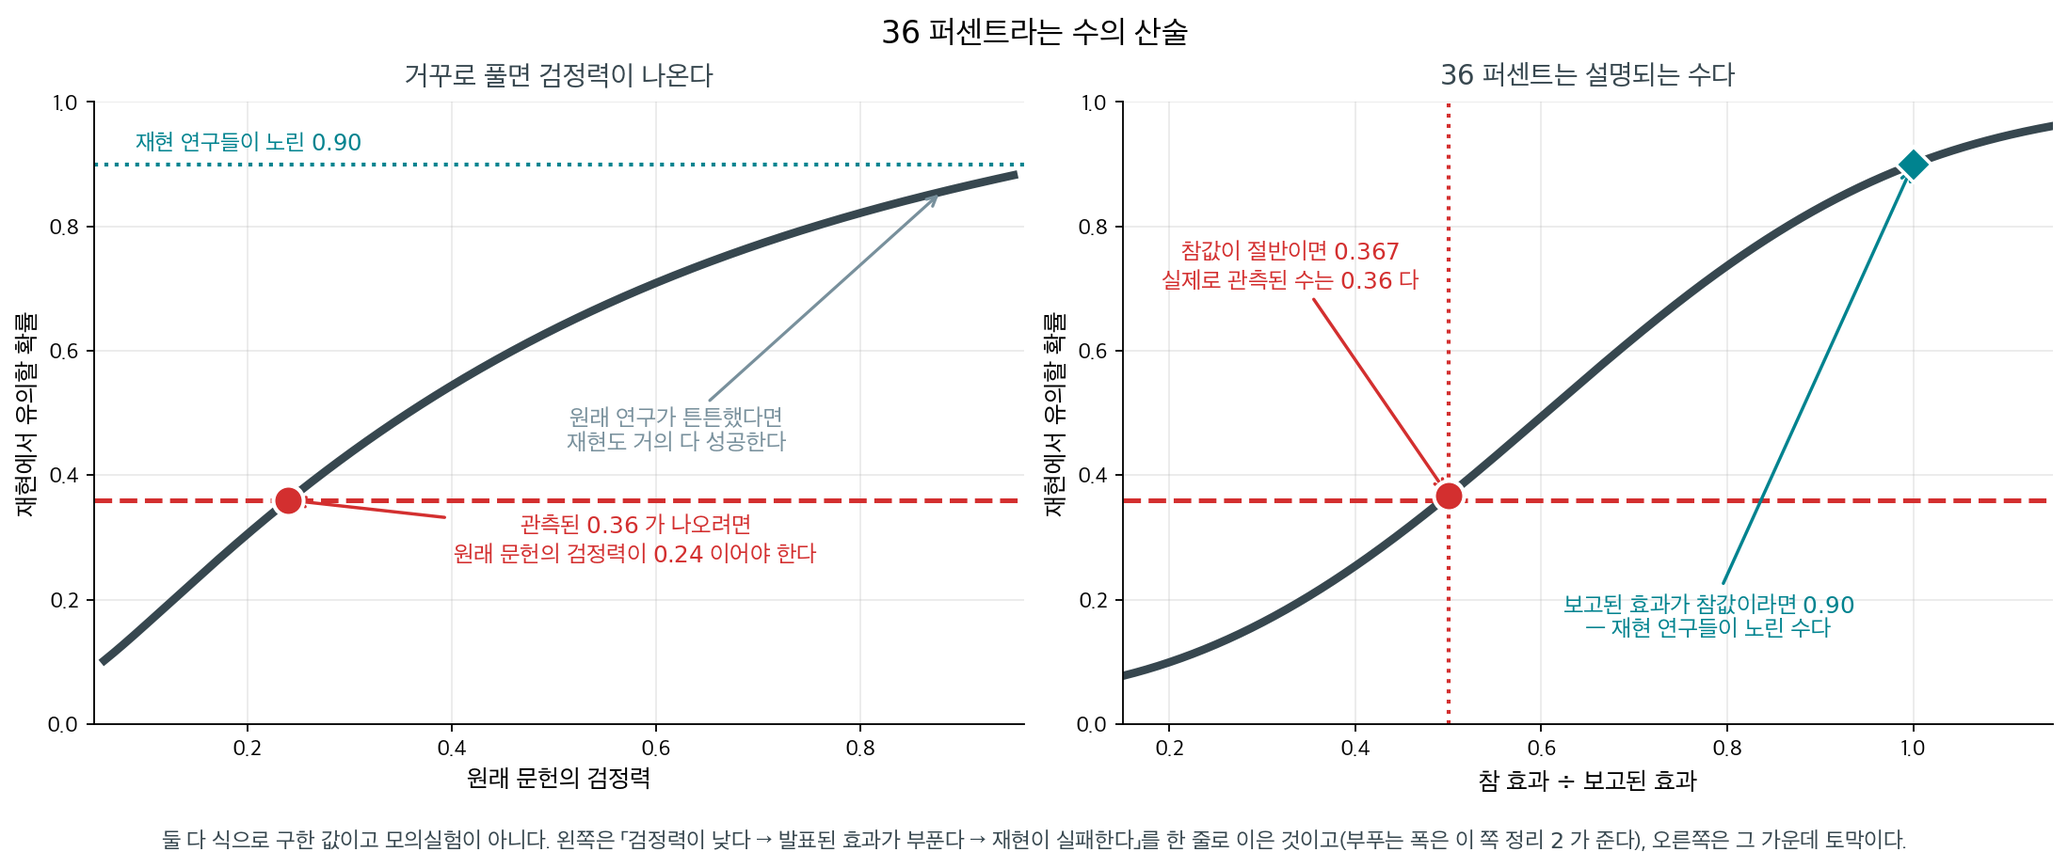
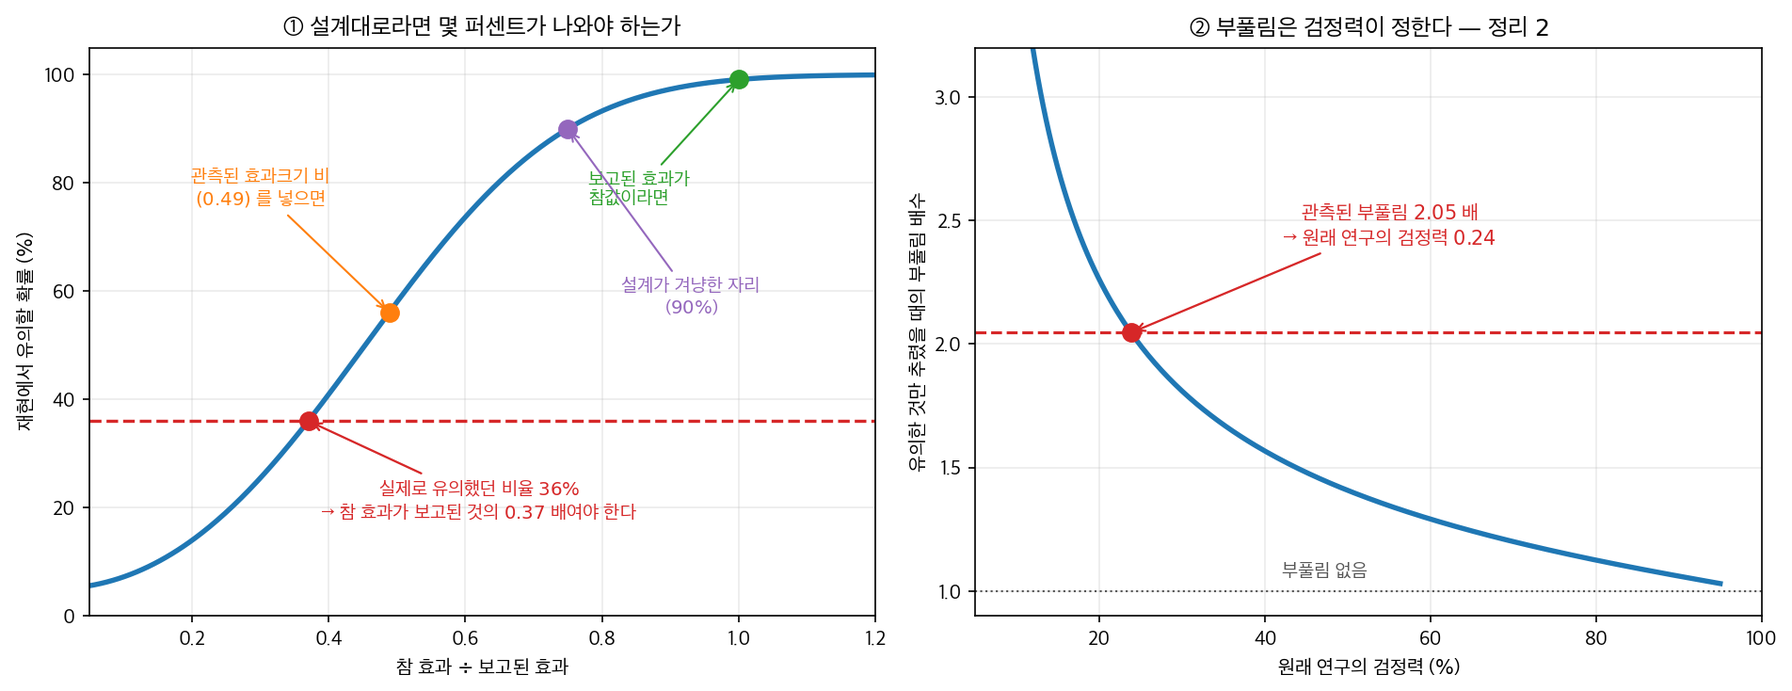
docs(ch01): 상자 다섯 개의 출처를 보강하고, 재현성 상자의 틀린 산술을 고침
출처 줄 규약을 agents/SKILL.md 에 명문화하고 ch01 의 상자 다섯 개를 메웠다.

그 과정에서 publication_bias 의 재현성 상자에 **사실 오류**를 발견했다.
재현 연구가 「원래 효과에 90% 검정력」으로 설계되었다고 적었으나 실제로는
「원래 효과의 75% 를 90% 검정력으로」였다. 그 위에 세운 0.367 ≈ 0.36 의
일치는 성립하지 않는다. 맞는 산술로 바꾸면 관측된 효과크기 비 0.49 가
56.1% 를 주고 실제 36% 와 20%p 가 어긋나며, 그 몫을 한 줄로 설명하지
않고 효과크기의 퍼짐(SD 0.257 > 평균 0.197)을 가리키도록 고쳐 적었다.
정리 2 로 푸는 「원래 검정력 0.24」는 재현 설계와 무관하므로 그대로다.
그림도 다시 그렸다.

diff --git a/scripts/make_ch01_replication_arithmetic.py b/scripts/make_ch01_replication_arithmetic.py
@@ -1,176 +1,130 @@
-r"""1.3절 「그림으로 보는 통계학」 — 36 퍼센트라는 수의 산술.
+r"""재현성 프로젝트의 세 수를 식으로 따져 본다.
 
-2015 년 8 월, 『사이언스』에 심리학 논문 100 편을 다시 해 본 결과가
-실렸다. 연구자 270 명 남짓이 몇 해에 걸쳐 한 일이다.
+재현 연구들은 **원래 효과의 $75\%$ 를 $90\%$ 검정력으로** 잡도록 설계되었다. 그 설계에서
+참 효과가 보고된 것의 몇 배냐에 따라 재현 성공 확률이 어떻게 달라지는가가 왼쪽이고,
+승자의 저주가 주는 부풀림이 원래 연구의 검정력과 어떻게 묶이는가가 오른쪽이다.
 
-  원래 논문의 97% 가 유의했다
-  다시 한 것의 36% 가 유의했다
-  다시 한 쪽의 효과크기가 원래의 절반쯤이었다
-
-세 수가 따로 노는 것처럼 보이지만 하나로 이어진다.
-
-재현 연구들은 **원래 보고된 효과크기**에 대해 90% 검정력이 되도록
-표본을 잡았다. 그런데 참 효과가 보고된 것의 절반이라면 그 설계의
-검정력은
-
-  lambda = 1.96 + 1.2816 = 3.2416     (보고된 효과에 대해 90%)
-  참 효과가 절반이면 lambda' = 1.6208
-  검정력 = Phi(1.6208 - 1.96) + Phi(-1.6208 - 1.96) = 0.367
-
-이다. **0.367 대 관측된 0.36.** 셋째 줄이 둘째 줄을 설명한다.
-
-그러면 왜 발표된 효과가 두 배로 부풀어 있었는가. 유의한 것만 실리기
-때문이다. 참 효과 delta 를 검정력 beta 로 재서 유의할 때만 발표하면
-
-  검정력 0.17 -> 발표된 효과가 참값의 2.49 배
-  검정력 0.25 ->                      2.00 배
-  검정력 0.52 ->                      1.39 배
-  검정력 0.90 ->                      1.06 배
-
-「절반」이 되려면 원래 연구들의 검정력이 0.25 쯤이었어야 한다.
-
-두 토막을 한 줄로 이어 거꾸로 풀면, 재현 성공률 0.36 이 나오려면
-원래 문헌의 검정력이 0.240 이어야 한다. 심리학 문헌의 검정력에 대해
-코언 이래로 거듭 보고되어 온 수준이 그쯤이다.
-
-만드는 파일:
-
-  ch01/classical/img/replication_arithmetic.png
-
-실행:  python3 scripts/make_ch01_replication_arithmetic.py   (저장소 최상위에서)
-필요:  numpy, scipy, matplotlib — 문서 빌드에는 필요하지 않다.
-       PNG는 커밋되므로 CI에서 다시 그리지 않는다.
+만드는 파일: docs/ch01/classical/img/replication_arithmetic.png
 """
 
 import numpy as np
-from scipy.optimize import brentq
-from scipy.stats import norm
-
 import matplotlib
+
 matplotlib.use("Agg")
 import matplotlib.pyplot as plt
 
 plt.rcParams["font.family"] = "Apple SD Gothic Neo"
 plt.rcParams["axes.unicode_minus"] = False
 
-OUT = "docs/ch01/classical/img/"
+from scipy import stats, optimize  # noqa: E402
 
-INK = "#37474F"
-MUTED = "#90A4AE"
-GREY = "#78909C"
-RED = "#D32F2F"
-TEAL = "#00838F"
-AMBER = "#B07C2C"
-BLUE = "#1565C0"
+Z = stats.norm.isf(0.025)  # 1.96
+# 설계: 원래 효과의 0.75 배에서 검정력 0.90
+LAM75 = Z + stats.norm.isf(0.10)
+K = LAM75 / 0.75  # 참/보고 비 r 당 비중심 모수
 
-ZC = 1.959964
-OBS_REP = 0.36                 # 관측된 재현 성공률
-TARGET = 0.90                  # 재현 연구가 노린 검정력
+OBS_RATIO = 0.197 / 0.403  # 재현 효과 / 원래 효과 (상관계수 단위)
+OBS_RATE = 0.36  # 실제로 유의했던 비율
 
 
-def power(lam):
-    return norm.sf(ZC - lam) + norm.cdf(-ZC - lam)
+def rep_power(r):
+    lam = K * np.asarray(r, dtype=float)
+    return stats.norm.sf(Z - lam) + stats.norm.cdf(-Z - lam)
 
 
-def inflation(lam):
-    """참 효과 lam 을 재서 유의할 때만 발표하면 발표값이 참값의 몇 배인가."""
-    a = norm.pdf(ZC - lam) - norm.pdf(-ZC - lam)
-    return (lam + a / power(lam)) / lam
+def inflation(d):
+    """참 효과 d 인 연구가 유의했을 때 보고되는 효과의 부풀림 배수."""
+    c = Z - d
+    return 1 + stats.norm.pdf(c) / stats.norm.sf(c) / d
 
 
-def main():
-    lam90 = brentq(lambda L: power(L) - TARGET, 0.1, 12)
-    print(f"  보고된 효과에 대해 검정력 {TARGET}: lambda = {lam90:.4f}")
-    print(f"\n{'참/보고 비율':>12}{'재현 검정력':>14}")
-    for r in (1.0, 0.8, 0.6, 0.5, 0.4, 0.3):
-        print(f"{r:>12.2f}{power(lam90*r):>14.3f}")
-    half = power(lam90 * 0.5)
-    print(f"\n  절반이면 {half:.4f} — 관측된 {OBS_REP}")
-
-    print(f"\n{'원래 연구의 검정력':>18}{'발표된 효과 / 참값':>20}")
-    for pw in (0.17, 0.25, 0.35, 0.52, 0.80, 0.90):
-        lam = brentq(lambda L: power(L) - pw, 0.01, 12)
-        print(f"{pw:>18.2f}{inflation(lam):>20.3f}")
-    lam2 = brentq(lambda L: inflation(L) - 2.0, 0.2, 6)
-    print(f"\n  발표값이 참값의 두 배가 되는 검정력 = {power(lam2):.3f}")
-
-    fig, axes = plt.subplots(1, 2, figsize=(13.2, 5.1), constrained_layout=True)
-
-    # ── 왼쪽: 원래 문헌의 검정력이 얼마였어야 하는가 ──
-    ax = axes[0]
-    pws = np.linspace(0.06, 0.95, 400)
-    lams = np.array([brentq(lambda L: power(L) - p, 0.01, 12) for p in pws])
-    comp = np.array([power(lam90 / inflation(l)) for l in lams])
-    beta_star = float(np.interp(OBS_REP, comp, pws))
-    print(f"\n  재현 성공률 {OBS_REP} 가 나오려면 원래 문헌의 검정력이 "
-          f"{beta_star:.3f} 이어야 한다")
-    ax.plot(pws, comp, lw=3.8, color=INK)
-    ax.axhline(OBS_REP, color=RED, lw=2.2, ls="--")
-    ax.axhline(TARGET, color=TEAL, lw=1.8, ls=":")
-    ax.plot([beta_star], [OBS_REP], marker="o", ms=14, color=RED, zorder=5,
-            mec="white", mew=1.8)
-    ax.text(0.09, TARGET + 0.022, f"재현 연구들이 노린 ${TARGET:.2f}$",
-            fontsize=10.6, color=TEAL)
-    ax.annotate(f"관측된 ${OBS_REP}$ 가 나오려면\n"
-                f"원래 문헌의 검정력이 ${beta_star:.2f}$ 이어야 한다",
-                xy=(beta_star, OBS_REP), xytext=(0.58, 0.26), fontsize=10.8,
-                color=RED, ha="center",
-                arrowprops=dict(arrowstyle="->", color=RED, lw=1.5))
-    ax.annotate("원래 연구가 튼튼했다면\n재현도 거의 다 성공한다",
-                xy=(0.88, comp[np.argmin(abs(pws - 0.88))]),
-                xytext=(0.62, 0.44), fontsize=10.8, color=GREY, ha="center",
-                arrowprops=dict(arrowstyle="->", color=GREY, lw=1.4))
-    ax.set_xlabel("원래 문헌의 검정력", fontsize=11.5)
-    ax.set_ylabel("재현에서 유의할 확률", fontsize=11.5)
-    ax.set_title("거꾸로 풀면 검정력이 나온다", fontsize=12.8, color=INK,
-                 pad=8)
-    ax.set_xlim(0.05, 0.96)
-    ax.set_ylim(0, 1.0)
-    ax.grid(alpha=0.25)
-    ax.spines[["top", "right"]].set_visible(False)
-
-    # ── 오른쪽: 그러면 재현은 몇 번 성공하는가 ──
-    ax = axes[1]
-    rs = np.linspace(0.15, 1.15, 400)
-    ax.plot(rs, [power(lam90 * r) for r in rs], lw=3.8, color=INK)
-    ax.axhline(OBS_REP, color=RED, lw=2.2, ls="--")
-    ax.axvline(0.5, color=RED, lw=1.8, ls=":")
-    ax.plot([0.5], [half], marker="o", ms=14, color=RED, zorder=5,
-            mec="white", mew=1.8)
-    ax.plot([1.0], [TARGET], marker="D", ms=12, color=TEAL, zorder=5,
-            mec="white", mew=1.6)
-    ax.annotate(f"보고된 효과가 참값이라면 ${TARGET:.2f}$\n"
-                f"— 재현 연구들이 노린 수다",
-                xy=(1.0, TARGET), xytext=(0.78, 0.14), fontsize=10.8,
-                color=TEAL, ha="center",
-                arrowprops=dict(arrowstyle="->", color=TEAL, lw=1.5))
-    ax.annotate(f"참값이 절반이면 ${half:.3f}$\n"
-                f"실제로 관측된 수는 ${OBS_REP}$ 다",
-                xy=(0.5, half), xytext=(0.33, 0.70), fontsize=10.8,
-                color=RED, ha="center",
-                arrowprops=dict(arrowstyle="->", color=RED, lw=1.5))
-    ax.set_xlabel("참 효과 $\\div$ 보고된 효과", fontsize=11.5)
-    ax.set_ylabel("재현에서 유의할 확률", fontsize=11.5)
-    ax.set_title("$36$ 퍼센트는 설명되는 수다", fontsize=12.8, color=INK,
-                 pad=8)
-    ax.set_xlim(0.15, 1.15)
-    ax.set_ylim(0, 1.0)
-    ax.grid(alpha=0.25)
-    ax.spines[["top", "right"]].set_visible(False)
-
-    fig.suptitle("$36$ 퍼센트라는 수의 산술", fontsize=14.5)
-    fig.text(0.5, -0.06,
-             "둘 다 식으로 구한 값이고 모의실험이 아니다. 왼쪽은 "
-             "「검정력이 낮다 → 발표된 효과가 부푼다 → 재현이 실패한다」를 "
-             "한 줄로 이은 것이고(부푸는 폭은 이 쪽 정리 $2$ 가 준다), "
-             "오른쪽은 그 가운데 토막이다.",
-             ha="center", fontsize=10.4, color=INK)
-
-    path = OUT + "replication_arithmetic.png"
-    fig.savefig(path, dpi=165, facecolor="white", bbox_inches="tight")
-    plt.close(fig)
-    print(f"saved {path}")
+def orig_power(d):
+    return stats.norm.sf(Z - d) + stats.norm.cdf(-Z - d)
 
 
-if __name__ == "__main__":
-    main()
+R_AT_OBS = optimize.brentq(lambda r: rep_power(r) - OBS_RATE, 0.05, 1.5)
+D_STAR = optimize.brentq(lambda d: inflation(d) - 1 / OBS_RATIO, 0.05, 4.0)
+P_STAR = orig_power(D_STAR)
+
+# === 그림 ==========================================================
+fig, (ax1, ax2) = plt.subplots(1, 2, figsize=(12.8, 5.0))
+
+rs = np.linspace(0.05, 1.2, 400)
+ax1.plot(rs, rep_power(rs) * 100, color="#1f77b4", lw=2.6)
+pts = [
+    (1.0, "#2ca02c", "보고된 효과가\n참값이라면"),
+    (0.75, "#9467bd", "설계가 겨냥한 자리\n($90\\%$)"),
+    (OBS_RATIO, "#ff7f0e", f"관측된 효과크기 비\n$({OBS_RATIO:.2f})$ 를 넣으면"),
+]
+for r, c, lab in pts:
+    ax1.plot([r], [rep_power(r) * 100], "o", color=c, ms=9, zorder=5)
+ax1.annotate(pts[0][2], xy=(1.0, 99.1), xytext=(0.78, 76),
+             fontsize=9.5, color=pts[0][1],
+             arrowprops=dict(arrowstyle="->", color=pts[0][1], lw=1.0))
+ax1.annotate(pts[1][2], xy=(0.75, 90.0), xytext=(0.93, 56),
+             ha="center", fontsize=9.5, color=pts[1][1],
+             arrowprops=dict(arrowstyle="->", color=pts[1][1], lw=1.0))
+ax1.annotate(pts[2][2], xy=(OBS_RATIO, rep_power(OBS_RATIO) * 100),
+             xytext=(0.30, 76), ha="center", fontsize=9.5, color=pts[2][1],
+             arrowprops=dict(arrowstyle="->", color=pts[2][1], lw=1.0))
+ax1.axhline(OBS_RATE * 100, color="#d62728", lw=1.6, ls="--")
+ax1.plot([R_AT_OBS], [OBS_RATE * 100], "o", color="#d62728", ms=9, zorder=5)
+ax1.annotate(
+    f"실제로 유의했던 비율 ${OBS_RATE * 100:.0f}\\%$\n"
+    f"→ 참 효과가 보고된 것의 ${R_AT_OBS:.2f}$ 배여야 한다",
+    xy=(R_AT_OBS, OBS_RATE * 100),
+    xytext=(0.62, 18),
+    ha="center",
+    fontsize=9.5,
+    color="#d62728",
+    arrowprops=dict(arrowstyle="->", color="#d62728", lw=1.1),
+)
+ax1.set_xlabel("참 효과 $\\div$ 보고된 효과")
+ax1.set_ylabel("재현에서 유의할 확률 ($\\%$)")
+ax1.set_title("① 설계대로라면 몇 퍼센트가 나와야 하는가", fontsize=12)
+ax1.set_xlim(0.05, 1.2)
+ax1.set_ylim(0, 105)
+ax1.grid(alpha=0.25)
+
+ds = np.linspace(0.35, 3.6, 400)
+ax2.plot(orig_power(ds) * 100, inflation(ds), color="#1f77b4", lw=2.6)
+ax2.axhline(1 / OBS_RATIO, color="#d62728", lw=1.5, ls="--")
+ax2.plot([P_STAR * 100], [1 / OBS_RATIO], "o", color="#d62728", ms=9, zorder=5)
+ax2.annotate(
+    f"관측된 부풀림 ${1 / OBS_RATIO:.2f}$ 배\n→ 원래 연구의 검정력 ${P_STAR:.2f}$",
+    xy=(P_STAR * 100, 1 / OBS_RATIO),
+    xytext=(55, 2.4),
+    ha="center",
+    fontsize=10,
+    color="#d62728",
+    arrowprops=dict(arrowstyle="->", color="#d62728", lw=1.1),
+)
+ax2.axhline(1.0, color="#555555", lw=1.0, ls=":")
+ax2.text(42, 1.05, "부풀림 없음", ha="left", va="bottom", fontsize=9.5, color="#555555")
+ax2.set_xlabel("원래 연구의 검정력 ($\\%$)")
+ax2.set_ylabel("유의한 것만 추렸을 때의 부풀림 배수")
+ax2.set_title("② 부풀림은 검정력이 정한다 — 정리 $2$", fontsize=12)
+ax2.set_xlim(5, 100)
+ax2.set_ylim(0.9, 3.2)
+ax2.grid(alpha=0.25)
+
+fig.tight_layout()
+out = "docs/ch01/classical/img/replication_arithmetic.png"
+fig.savefig(out, dpi=150, bbox_inches="tight")
+print("saved", out)
+
+# === 본문에 적을 수 =================================================
+print(f"\n설계: 원래 효과의 0.75 배를 검정력 0.90 으로 → 비중심 모수 {LAM75:.4f}")
+print(f"  r 한 단위당 {K:.4f}\n")
+print(f"{'참/보고':>10}{'재현에서 유의할 확률':>22}")
+for r in (1.0, 0.75, OBS_RATIO, 0.5, R_AT_OBS):
+    print(f"{r:>10.3f}{rep_power(r) * 100:>20.1f}%")
+print(f"\n  관측된 효과크기 비 {OBS_RATIO:.4f} 를 넣으면 {rep_power(OBS_RATIO) * 100:.1f}%")
+print(f"  그런데 실제로 유의했던 것은 {OBS_RATE * 100:.0f}%  → 차이 {(rep_power(OBS_RATIO) - OBS_RATE) * 100:.1f}%p")
+print(f"  {OBS_RATE * 100:.0f}% 가 나오려면 참/보고 가 {R_AT_OBS:.4f} 여야 한다")
+
+print("\n정리 2 쪽 (이 계산은 재현 설계와 무관하다)")
+print(f"  관측된 부풀림 {1 / OBS_RATIO:.4f} 배 → 원래 연구의 검정력 {P_STAR:.4f}")
+for p in (0.20, 0.24, 0.35, 0.50, 0.80):
+    dd = optimize.brentq(lambda d: orig_power(d) - p, 0.01, 8)
+    print(f"  검정력 {p:.2f} → 부풀림 {inflation(dd):.3f} 배 (참/보고 {1 / inflation(dd):.3f})")

diff --git a/docs/ch01/classical/publication_bias.md b/docs/ch01/classical/publication_bias.md
@@ -150,40 +150,48 @@ $$
 
 - 원래 논문의 **$97\%$** 가 유의했다
 - 다시 한 것의 **$36\%$** 가 유의했다
-- 다시 한 쪽의 효과크기가 원래의 **절반쯤**이었다
+- 효과크기가 평균 $0.403$ 에서 $0.197$ 로, 곧 **절반**으로 줄었다
 
 $36\%$ 라는 수가 널리 인용되었고, 그만큼 널리 「심리학의 $64\%$ 가 거짓이었다」로 잘못
-읽혔다. 그런데 이 세 줄은 따로 노는 수가 아니다. **셋째 줄이 둘째 줄을 거의 정확히
-설명한다.**
+읽혔다. 세 줄을 식에 넣어 보면 그보다 복잡한 그림이 나온다.
 
 <figure markdown>
-![왼쪽은 원래 문헌의 검정력에 따라 재현 성공 확률이 달라지는 곡선으로 0.36 이 나오는 자리가 검정력 0.24 임을 보이고, 오른쪽은 참 효과가 보고된 것의 절반일 때 재현 검정력이 0.367 임을 보이는 그림](img/replication_arithmetic.png){ width="900" }
-  <figcaption markdown>둘 다 식으로 구한 값이고 모의실험이 아니다. 부푸는 폭은 위 **정리 $2$** 가 준다.</figcaption>
+![왼쪽은 재현 연구의 설계에서 참 효과가 보고된 효과의 몇 배냐에 따라 유의할 확률이 달라지는 곡선으로 1 배에서 99 퍼센트, 0.75 배에서 90 퍼센트, 관측된 0.49 배에서 56 퍼센트가 되고 실제 관측된 36 퍼센트는 0.37 배 자리임을 보이는 그림, 오른쪽은 유의한 것만 추렸을 때의 부풀림이 원래 연구의 검정력에 따라 달라지는 곡선으로 관측된 2.05 배가 검정력 0.24 에 대응함을 보이는 그림](img/replication_arithmetic.png){ width="900" }
+  <figcaption markdown>둘 다 식으로 구한 값이고 모의실험이 아니다. 오른쪽의 부푸는 폭은 위 **정리 $2$** 가 준다.</figcaption>
 </figure>
 
-재현 연구들은 **원래 보고된 효과크기**에 대해 $90\%$ 검정력이 되도록 표본을 잡았다. 보고된
-효과가 참값이면 $90\%$ 가 성공해야 한다. 그런데 참 효과가 보고된 것의 **절반**이라면 같은
-설계의 검정력이
+재현 연구들은 아무렇게나 설계된 것이 아니다. **원래 효과의 $75\%$ 를 검정력 $90\%$ 로
+잡도록** 표본을 맞췄다. 그 설계에 참 효과의 크기를 넣어 보면 왼쪽 칸이 된다.
 
-$$
-\Phi\!\left(\tfrac{3.2416}{2} - 1.96\right) + \Phi\!\left(-\tfrac{3.2416}{2} - 1.96\right)
-= 0.367
-$$
+| 참 효과 $\div$ 보고된 효과 | 재현에서 유의할 확률 |
+|---:|---:|
+| $1.00$ (보고된 것이 참값) | $99.1\%$ |
+| $0.75$ (설계가 겨냥한 자리) | $90.0\%$ |
+| $\mathbf{0.49}$ (관측된 효과크기 비) | $\mathbf{56.1\%}$ |
+| $0.37$ | $36.0\%$ |
 
-이다. **$0.367$ 대 관측된 $0.36$.** 셋째 줄을 넣으면 둘째 줄이 나온다.
+**셋째 줄과 실제가 어긋난다.** 효과가 절반으로 줄어든 것까지 셈에 넣어도 $56\%$ 가
+나와야 하는데 실제로 유의했던 것은 $36\%$ 였다. $20$ 퍼센트포인트가 남는다.
 
-한 걸음 더 가면 첫째 줄까지 이어진다. 효과가 절반으로 부풀려지려면 정리 $2$ 에 따라 원래
-연구들의 검정력이 얼마여야 하는가. 세 토막을 한 줄로 이어 거꾸로 풀면 **$0.24$** 다.
-왼쪽 그림의 빨간 점이 그 자리이고, 심리학 문헌의 검정력으로 코언 이래 거듭 보고되어 온
-수준이 그쯤이다.
+남은 몫을 한 줄로 설명하려 들면 안 된다. 「평균이 절반」이라는 말은 **$100$ 편이 고르게
+절반씩 줄었다**는 뜻이 아니기 때문이다. 재현 효과크기의 표준편차가 $0.257$ 로 평균
+$0.197$ 보다 크다 — 참 효과가 거의 $0$ 인 연구가 적지 않았다는 뜻이고, 그런 연구는 표본을
+아무리 키워도 유의해지지 않는다. **평균을 넣어 구한 검정력과 검정력의 평균은 다른 수다.**
 
-그러니 $36\%$ 는 **부정행위의 증거가 아니다.** 검정력이 낮은 연구를 하고, 유의한 것만
-싣고, 보고된 효과크기를 그대로 믿고 다음 실험을 설계하면 — 아무도 거짓말을 하지 않아도 —
-나오게 되어 있는 수다. 왼쪽 그림의 오른쪽 끝이 말해 주듯, 원래 연구가 튼튼했다면 재현도
+그러면 **부풀림 쪽**은 어떤가. 이쪽은 재현 설계와 무관하게 정리 $2$ 만으로 풀린다.
+효과가 $2.05$ 배로 부풀려지려면 원래 연구들의 검정력이 얼마여야 하는가. 오른쪽 칸의
+곡선을 거꾸로 읽으면 **$0.24$** 다. 심리학 문헌의 검정력으로 코언 이래 거듭 보고되어 온
+수준이 그쯤이다. 이 한 수는 잘 맞는다.
+
+그러니 $36\%$ 는 **부정행위의 증거가 아니다.** 검정력이 $0.24$ 인 연구를 하고, 유의한
+것만 싣고, 보고된 효과크기를 그대로 믿고 다음 실험을 설계하면 — 아무도 거짓말을 하지
+않아도 — 이쯤이 나온다. 왼쪽 칸의 오른쪽 끝이 말해 주듯, 원래 연구가 튼튼했다면 재현도
 거의 다 성공했을 것이다.
 
-$5$ 절의 처방이 **사전등록**인 까닭이 여기 있다. 그런데 등록만으로는 왼쪽 그림의 가로축을
+$5$ 절의 처방이 **사전등록**인 까닭이 여기 있다. 그런데 등록만으로는 오른쪽 칸의 가로축을
 움직이지 못한다. 검정력은 표본 크기가 정하고, 표본 크기는 돈이 정한다.
+
+_확인한 곳 — 공개과학협력단의 「Estimating the reproducibility of psychological science」(『Science』 $349$ 권 $6251$ 호 aac4716, $2015$ 년 $8$ 월). 연구자 $270$ 명 남짓이 세 학술지의 논문 $100$ 편을 다시 한 것, 원래의 $97\%$ 와 재현의 $36\%$ 가 유의했던 것, 효과크기가 평균 $0.403$(SD $0.188$)에서 $0.197$(SD $0.257$)로 줄어든 것, 그리고 재현을 **원래 효과의 $75\%$ 를 $90\%$ 검정력으로** 잡도록 설계했다는 것. 표와 그림의 수는 그 설계와 정리 $2$ 에서 직접 계산한 값이다_
 
 </div>
 

diff --git a/docs/ch01/paradigms/supervised.md b/docs/ch01/paradigms/supervised.md
@@ -95,6 +95,8 @@ $x_1 x_2$ 라는 항 **하나**를 더해 주면 $0.849$ 에서 출발해 $0.946
 방법**이었고, 역전파가 널리 알려진 1986 년까지 기다려야 했다. 그러니 겨울을 부른 것은 틀린
 정리가 아니라, 좁은 모형에 대한 맞는 정리를 넓게 읽은 일이었다.
 
+_확인한 곳 — $1958$ 년 $7$ 월 $8$ 일 『뉴욕 타임스』 기사의 제목(「New Navy Device Learns By Doing; Psychologist Shows Embryo of Computer」)과 해군이 기대한다고 밝힌 「걷고, 말하고, 보고, 쓰고, 스스로를 복제하고, 자기 존재를 의식하게」라는 표현, 퍼셉트론의 눈이 $20 \times 20$ 광전지 배열이었다는 것, 민스키·페퍼트의 『Perceptrons』($1969$)가 한 층짜리로 XOR 를 나타낼 수 없음을 보였다는 것. 그림의 수는 모두 직접 모의실험한 값이다_
+
 </div>
 
 ---

diff --git a/docs/ch01/paradigms/unsupervised.md b/docs/ch01/paradigms/unsupervised.md
@@ -203,6 +203,8 @@ $0.100$ 에서 $0.908$ 로 간다. 통계 꾸러미들이 기본값을 이것으
 찾았는지** 역시 알 수 없다. 군집내 제곱합이 $2180$ 이라는 보고를 받았을 때, 그것이 이 자료의
 최솟값인지 아니면 어디선가 걸린 값인지는 보고서에 적혀 있지 않다.
 
+_확인한 곳 — 로이드가 $1957$ 년 벨 연구소 기술보고서에 적은 「Least squares quantization in PCM」이 $1982$ 년에야 『IEEE Transactions on Information Theory』 $28$ 권 $2$ 호 $129$–$137$ 쪽으로 나왔다는 것, 포지($1965$)가 같은 방법을 따로 적었고 「$k$-평균」이라는 이름은 매퀸($1967$)이 붙였다는 것, 아서·바실비츠키의 $k$-means++($2007$). 표와 그림의 수는 모두 직접 모의실험한 값이다_
+
 </div>
 
 ---

diff --git a/docs/ch01/classical/bias_nonresponse.md b/docs/ch01/classical/bias_nonresponse.md
@@ -294,6 +294,8 @@ $\bar U$ 는 각 대입 안에서의 분산이고 $B$ 는 **대입들 사이의*
 때문**이다. 위 표의 「사후층화 가중」이나 「IPW」가 쓰는 것과 같은 정보다. 아무 정보 없이
 빈칸만 바라보면 어떤 방법도 무응답 편향을 지우지 못한다 — 정리 $1$ 이 말하는 그대로다.
 
+_확인한 곳 — 도널드 루빈의 『Multiple Imputation for Nonresponse in Surveys』(Wiley, $1987$)와 거기서 나온 합치기 규칙 $T = \bar U + (1 + 1/m)B$ 의 꼴, $\bar U$ 가 대입 안의 평균 분산이고 $B$ 가 대입들 사이의 분산이라는 것. 표의 수는 모두 직접 모의실험한 값이다_
+
 </div>
 
 <div class="exbox" markdown>

diff --git a/docs/ch01/classical/parameters_statistics.md b/docs/ch01/classical/parameters_statistics.md
@@ -131,6 +131,8 @@ $2023$ 년에 그 답을 가진 세대는 $1974$ 년생이다.
 실재하지 않는 사람을 하나 세워 놓고 계산한다. 그 사람이 누구인지 알고 읽는 것과 모르고
 읽는 것의 차이가 이 절이 하는 구분이다.
 
+_확인한 곳 — $2023$ 년 합계출산율 $0.72$ 와 $2024$ 년 $0.75$, OECD $38$ 개국 가운데 열두 해째 꼴찌이고 둘째인 폴란드가 $1.10$ 이라는 것. 미루기의 효과를 보인 표의 수는 직접 계산한 값이다_
+
 </div>
 
 ---
